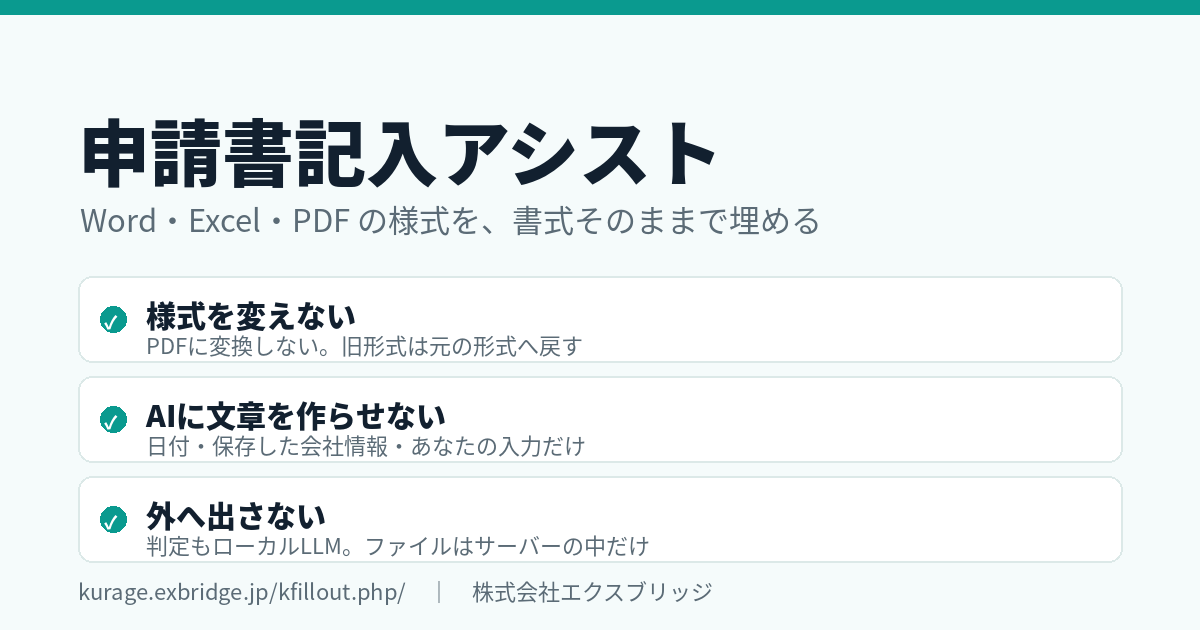
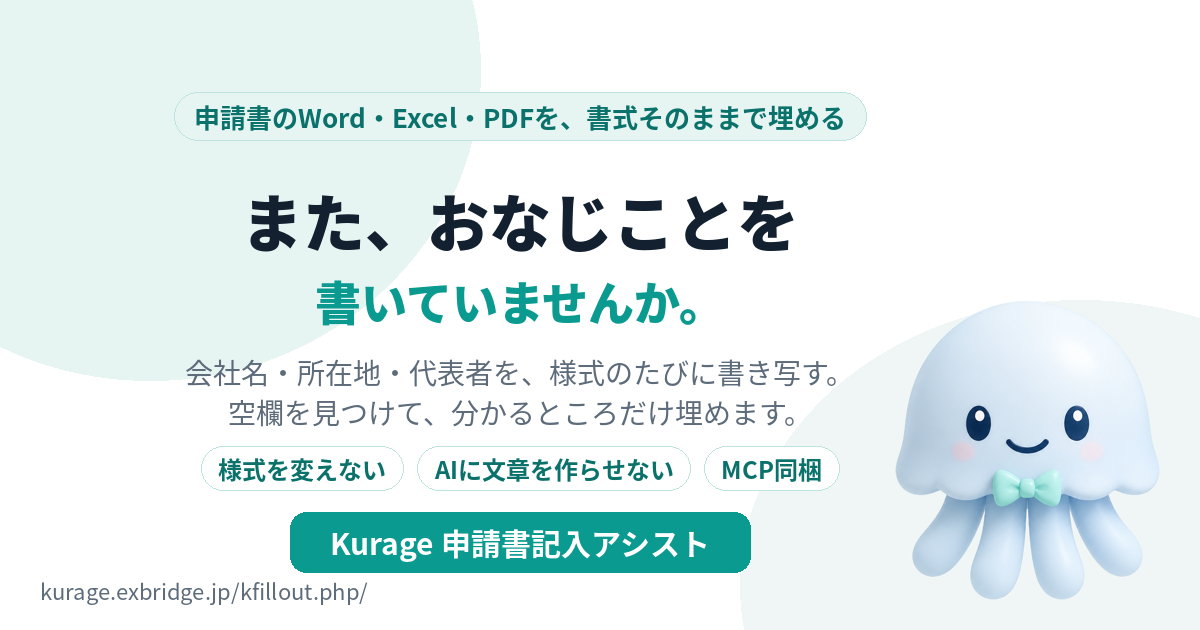
商品画像・OGPを作り直し。kjishin/scripts/make_ogp.py と同じ型に揃えた
前の画像は自作の別デザインでKurageマスコットも無く、他の商品と並んだときに浮いていた。
正典(kjishin)の構成（薄緑の円・ピル型の帯・見出し2段・説明2行・特徴ピル3つ・ティールの製品名帯・
右下にマスコット）をそのまま使い、文言だけ差し替えた

Changed region(s): [[0.0308, 0.1508, 0.925, 0.9651], [0.74, 0.4825, 0.9867, 0.9651], [0.0, 0.0, 1.0, 0.0302]]

diff --git a/scripts/make_ogp.py b/scripts/make_ogp.py
@@ -1,63 +1,85 @@
 #!/usr/bin/env python3
-"""デモサイトのOGP画像（1200x630）を作る。
+"""OGP / kappstore 商品画像 1200×630。
 
-kappstore の商品カード（scripts/make_card.py）と同じ配色で、Kurageシリーズとして揃える。
-成長する数字は焼き込まない（あとで嘘になる）。実測値は「4,024件」のように
-出典と時点が言えるものだけ入れる。
+**kjishin/scripts/make_ogp.py と同じ型で作る。** Kurageシリーズの商品カードが並んだときに
+揃って見えるよう、配色・余白・マスコットの位置・帯の形を合わせている。
+（ライトテーマ・中央寄せ・文字大きく・マスコット入り・成長する数字は焼き込まない）
 
-  .venv/bin/python scripts/make_ogp.py  →  app/static/ogp.png
+  .venv/bin/python scripts/make_ogp.py
+    → app/static/ogp.png            デモサイトのOGP
+    → outputs/listing/card.png      kappstore の商品画像（同じ絵）
 """
 import os
 
 from PIL import Image, ImageDraw, ImageFont
 
-ROOT = os.path.dirname(os.path.dirname(os.path.abspath(__file__)))
-FONT_B = "/usr/share/fonts/opentype/noto/NotoSansCJK-Black.ttc"
-FONT_R = "/usr/share/fonts/opentype/noto/NotoSansCJK-Regular.ttc"
 W, H = 1200, 630
-# note の見出し画像は 1280x670 が推奨。同じ絵をそのサイズでも書き出す
-NOTE_W, NOTE_H = 1280, 670
-FOAM, PANEL, TEAL, NAVY, MUTED = "#f5fbfb", "#e7f3f2", "#0a9a8f", "#12202f", "#5b6b76"
+ROOT = os.path.dirname(os.path.dirname(os.path.abspath(__file__)))
+MASCOT = "/home/kojima/work/kurage_web/images/kurage-mascot-cutout.png"
+FB = "/usr/share/fonts/opentype/noto/NotoSansCJK-Black.ttc"
+FM = "/usr/share/fonts/opentype/noto/NotoSansCJK-Bold.ttc"
+FR = "/usr/share/fonts/opentype/noto/NotoSansCJK-Regular.ttc"
 
 
-def f(p, s):
-    return ImageFont.truetype(p, s)
+def build() -> Image.Image:
+    img = Image.new("RGB", (W, H), "#ffffff")
+    dr = ImageDraw.Draw(img, "RGBA")
+    dr.ellipse([-180, -240, 480, 380], fill=(230, 244, 242, 255))
+    dr.ellipse([W - 460, H - 330, W + 220, H + 240], fill=(240, 246, 246, 255))
+
+    mascot = None
+    if os.path.exists(MASCOT):
+        mascot = Image.open(MASCOT).convert("RGBA")
+        mh = 300
+        mascot = mascot.resize((int(mascot.width * mh / mascot.height), mh))
+    cx = 520 if mascot else W // 2
+
+    f_badge = ImageFont.truetype(FM, 26)
+    f_h = ImageFont.truetype(FB, 62)
+    f_h2 = ImageFont.truetype(FB, 46)
+    f_s = ImageFont.truetype(FR, 28)
+    f_pill = ImageFont.truetype(FM, 24)
+    f_brand = ImageFont.truetype(FM, 30)
+
+    badge = "申請書のWord・Excel・PDFを、書式そのままで埋める"
+    bw = dr.textlength(badge, font=f_badge) + 40
+    dr.rounded_rectangle([cx - bw / 2, 92, cx + bw / 2, 140], radius=24,
+                         fill="#e6f4f2", outline="#bfe3de")
+    dr.text((cx, 116), badge, font=f_badge, fill="#0a726b", anchor="mm")
+
+    dr.text((cx, 220), "また、おなじことを", font=f_h, fill="#12202f", anchor="mm")
+    dr.text((cx, 300), "書いていませんか。", font=f_h2, fill="#0a9a8f", anchor="mm")
+    dr.text((cx, 372), "会社名・所在地・代表者を、様式のたびに書き写す。", font=f_s, fill="#5d6b7a", anchor="mm")
+    dr.text((cx, 412), "空欄を見つけて、分かるところだけ埋めます。", font=f_s, fill="#5d6b7a", anchor="mm")
+
+    # 3つの約束。中央寄せで等間隔に置く
+    pills = ["様式を変えない", "AIに文章を作らせない", "MCP同梱"]
+    gap = 14
+    widths = [dr.textlength(p, font=f_pill) + 34 for p in pills]
+    total = sum(widths) + gap * (len(pills) - 1)
+    x = cx - total / 2
+    for p, w in zip(pills, widths):
+        dr.rounded_rectangle([x, 446, x + w, 490], radius=22, fill="#ffffff", outline="#bfe3de")
+        dr.text((x + w / 2, 468), p, font=f_pill, fill="#0a726b", anchor="mm")
+        x += w + gap
+
+    dr.rounded_rectangle([cx - 230, 512, cx + 230, 572], radius=16, fill="#0a9a8f")
+    dr.text((cx, 542), "Kurage 申請書記入アシスト", font=f_brand, fill="#ffffff", anchor="mm")
+
+    if mascot:
+        img.paste(mascot, (W - mascot.width - 40, H - mascot.height - 30), mascot)
+    dr.text((40, H - 40), "kurage.exbridge.jp/kfillout.php/",
+            font=ImageFont.truetype(FR, 22), fill="#5d6b7a", anchor="lm")
+    return img
 
 
 def main():
-    img = Image.new("RGB", (W, H), FOAM)
-    d = ImageDraw.Draw(img)
-    d.rectangle([0, 0, W, 14], fill=TEAL)
-
-    d.text((78, 96), "申請書記入アシスト", font=f(FONT_B, 72), fill=NAVY)
-    d.text((80, 196), "Word・Excel・PDF の様式を、書式そのままで埋める",
-           font=f(FONT_R, 31), fill=MUTED)
-
-    # 3つの約束（この製品の輪郭）
-    items = [("様式を変えない", "PDFに変換しない。旧形式は元の形式へ戻す"),
-             ("AIに文章を作らせない", "日付・保存した会社情報・あなたの入力だけ"),
-             ("外へ出さない", "判定もローカルLLM。ファイルはサーバーの中だけ")]
-    y = 276
-    for t, s in items:
-        d.rounded_rectangle([78, y, 1122, y + 86], 14, fill="#ffffff", outline="#dce9e8", width=2)
-        d.ellipse([100, y + 30, 126, y + 56], fill=TEAL)
-        d.text((104, y + 32), "✓", font=f(FONT_B, 18), fill="#ffffff")
-        d.text((146, y + 16), t, font=f(FONT_B, 30), fill=NAVY)
-        d.text((146, y + 52), s, font=f(FONT_R, 22), fill=MUTED)
-        y += 100
-
-    d.text((78, H - 56), "kurage.exbridge.jp/kfillout.php/　｜　株式会社エクスブリッジ",
-           font=f(FONT_R, 22), fill=MUTED)
-    out = os.path.join(ROOT, "app", "static", "ogp.png")
-    os.makedirs(os.path.dirname(out), exist_ok=True)
-    img.save(out)
-    print(out, img.size)
-    # note の見出し画像用（1280x670）。note_set_eyecatch 系はこのサイズを前提にしている
-    note = img.resize((NOTE_W, NOTE_H), Image.LANCZOS)
-    out2 = os.path.join(ROOT, "outputs", "listing", "note_eyecatch.png")
-    os.makedirs(os.path.dirname(out2), exist_ok=True)
-    note.save(out2)
-    print(out2, note.size)
+    img = build()
+    for path in (os.path.join(ROOT, "app", "static", "ogp.png"),
+                 os.path.join(ROOT, "outputs", "listing", "card.png")):
+        os.makedirs(os.path.dirname(path), exist_ok=True)
+        img.save(path, optimize=True)
+        print(path, img.size)
 
 
 if __name__ == "__main__":
